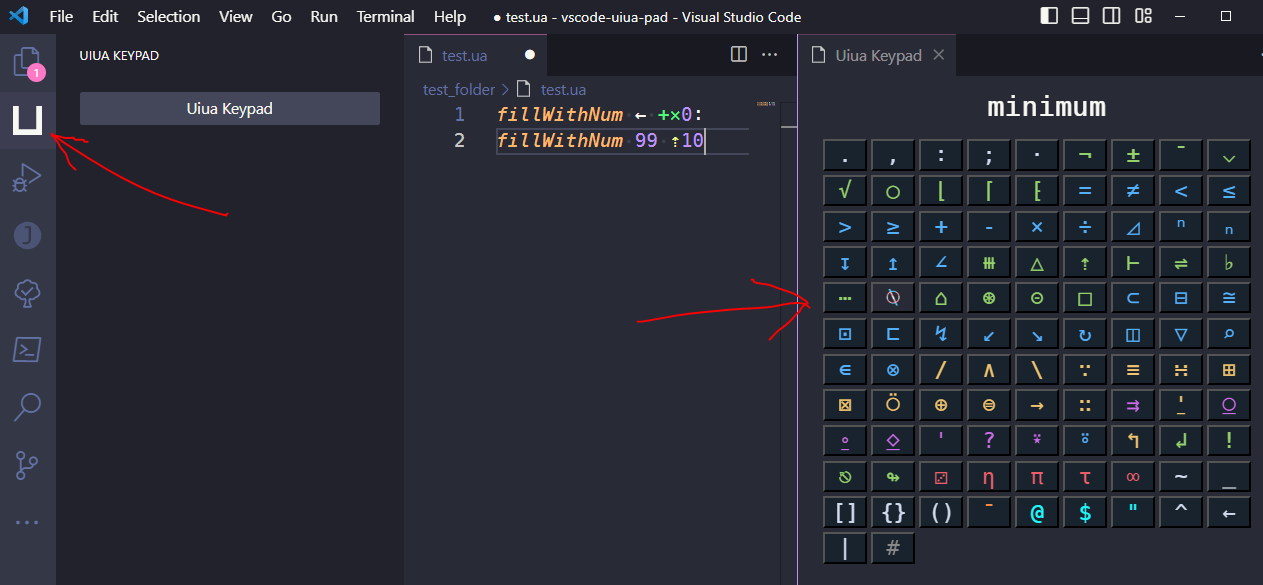
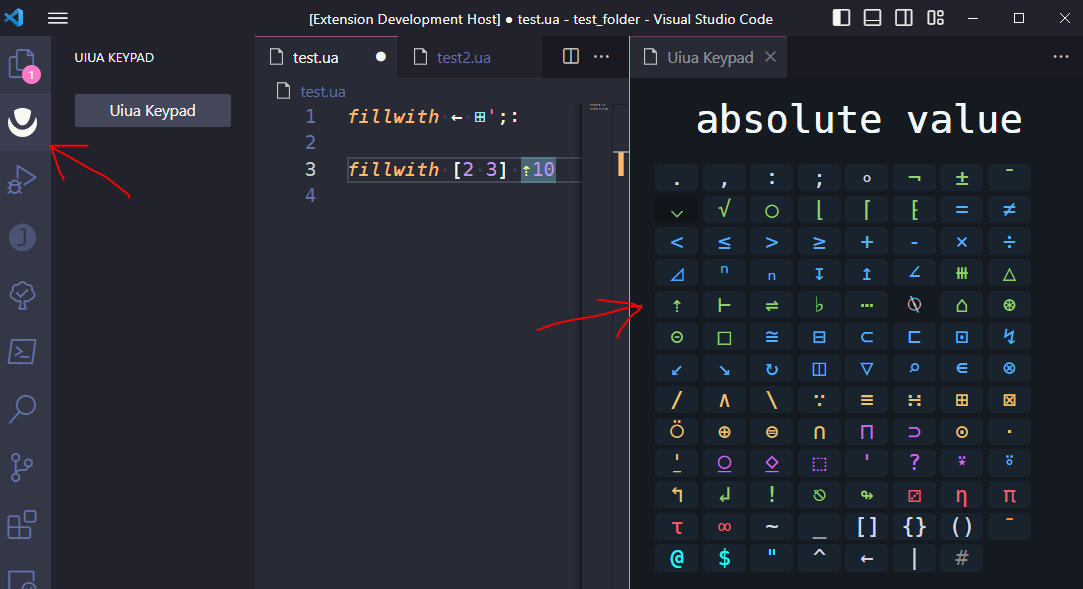
update screenshot

diff --git a/src/extension.ts b/src/extension.ts
@@ -5,6 +5,18 @@ import * as fs from 'fs';
 export function activate(context: vscode.ExtensionContext) {
 
     let panel: vscode.WebviewPanel | undefined = undefined;
+    let active_text_editor:vscode.TextEditor|undefined = vscode.window.activeTextEditor;
+    // track active text editor
+    // TODO: do we need to track notebook editors separately?
+    vscode.window.onDidChangeActiveTextEditor(new_active_editor=>{
+        if(new_active_editor){
+            active_text_editor = new_active_editor;
+        }
+        console.log(new_active_editor)
+        if(new_active_editor){
+            console.log(new_active_editor.document.fileName)
+        }
+    })
 
     context.subscriptions.push(
         vscode.commands.registerCommand('uiua_keypad.activate_keypad', () => {
@@ -37,22 +49,58 @@ export function activate(context: vscode.ExtensionContext) {
                 panel.webview.onDidReceiveMessage(async (message) => {
                     switch(message.command){
                         case "write_glyph":
-                            //vscode.window.showErrorMessage(message.text);
-                            let editor = vscode.window.activeTextEditor;
-                            if (!editor) {
-                                await vscode.commands.executeCommand('workbench.action.previousEditor');
-                                editor = vscode.window.activeTextEditor;
+                            if (!active_text_editor) {
+                                vscode.window.showErrorMessage(
+                                      `No active editor to insert ${message.text}.\n`
+                                    + `Please place your cursor.`
+                                );
+                                return;
                             }
-                            if (editor) {
-                                const { selections } = editor;
-                                editor.edit(editBuilder => {
-                                    for (const selection of selections) {
-                                        editBuilder.insert(selection.start, message.text);
-                                    }
-                                });
-                            }else{
-                                vscode.window.showErrorMessage(`No active editor to insert ${message.text}`);
+                            const { selections } = active_text_editor;
+                             // 1. Group the original selections by line.
+                            let original_selections_lines:Map<number, vscode.Selection[]> = new Map();
+                            for (const selection of selections) {
+                                let line = selection.start.line;
+                                let new_selections:vscode.Selection[] = original_selections_lines.get(line) || [];
+                                new_selections.push(selection);
+                                original_selections_lines.set(line, new_selections);
                             }
+
+                            // 2. Sort the grouped selections for each line from left to right.
+                            for (let line of original_selections_lines.values()) {
+                                line.sort((a, b) => a.start.character - b.start.character);
+                            }
+
+                            // Perform the insertions.
+                            await active_text_editor.edit(editBuilder => {
+                                for (const selection of selections) {
+                                    editBuilder.replace(selection.start, message.text);
+                                }
+                            });
+
+                            // 3. Adjust the selections.
+                            let newSelections = [];
+                            for (let [line, original_selections] of original_selections_lines.entries()) {
+                                let offset = 0;
+                                for (const original_selection of original_selections) {
+                                    let originalStart = original_selection.start.translate(0, offset);
+                                    newSelections.push(new vscode.Selection(originalStart, originalStart));
+                                    // Note: will misbehave if selection does not end on same
+                                    // line... but then again... that means there are no further
+                                    // selections on that line??
+                                    offset += (
+                                        original_selection.end.character
+                                        - original_selection.start.character
+                                    ) + message.text.length;
+                                }
+                            }
+
+                            active_text_editor.selections = newSelections;
+                            vscode.window.showTextDocument(
+                                active_text_editor.document,
+                                active_text_editor.viewColumn,
+                                false
+                            );
                     }
                 });
             }

diff --git a/webview_keypad/glyphs.js b/webview_keypad/glyphs.js
@@ -24,8 +24,8 @@ const glyphs = [
         "color": "rgb(209, 218, 236)"
     },
     {
-        "glyph": "·",
-        "title": "noop",
+        "glyph": "∘",
+        "title": "identity",
         "css_class": "stack-function-button",
         "color": "rgb(209, 218, 236)"
     },
@@ -252,8 +252,8 @@ const glyphs = [
         "color": "rgb(149, 209, 106)"
     },
     {
-        "glyph": "⊂",
-        "title": "join",
+        "glyph": "≅",
+        "title": "match",
         "css_class": "dyadic-function-button",
         "color": "rgb(84, 176, 252)"
     },
@@ -264,20 +264,20 @@ const glyphs = [
         "color": "rgb(84, 176, 252)"
     },
     {
-        "glyph": "≅",
-        "title": "match",
-        "css_class": "dyadic-function-button",
-        "color": "rgb(84, 176, 252)"
-    },
-    {
-        "glyph": "⊡",
-        "title": "pick",
+        "glyph": "⊂",
+        "title": "join",
         "css_class": "dyadic-function-button",
         "color": "rgb(84, 176, 252)"
     },
     {
         "glyph": "⊏",
         "title": "select",
+        "css_class": "dyadic-function-button",
+        "color": "rgb(84, 176, 252)"
+    },
+    {
+        "glyph": "⊡",
+        "title": "pick",
         "css_class": "dyadic-function-button",
         "color": "rgb(84, 176, 252)"
     },
@@ -402,22 +402,34 @@ const glyphs = [
         "color": "rgb(240, 195, 111)"
     },
     {
-        "glyph": "→",
-        "title": "dip",
-        "css_class": "modifier1-button",
-        "color": "rgb(240, 195, 111)"
-    },
-    {
-        "glyph": "∷",
+        "glyph": "∩",
         "title": "both",
         "css_class": "modifier1-button",
         "color": "rgb(240, 195, 111)"
     },
     {
-        "glyph": "⇉",
-        "title": "share",
+        "glyph": "⊓",
+        "title": "bracket",
         "css_class": "modifier2-button",
         "color": "rgb(204, 107, 233)"
+    },
+    {
+        "glyph": "⊃",
+        "title": "fork",
+        "css_class": "modifier2-button",
+        "color": "rgb(204, 107, 233)"
+    },
+    {
+        "glyph": "⊙",
+        "title": "dip",
+        "css_class": "modifier1-button",
+        "color": "rgb(240, 195, 111)"
+    },
+    {
+        "glyph": "⋅",
+        "title": "gap",
+        "css_class": "modifier1-button",
+        "color": "rgb(240, 195, 111)"
     },
     {
         "glyph": "⍘",
@@ -432,14 +444,14 @@ const glyphs = [
         "color": "rgb(204, 107, 233)"
     },
     {
-        "glyph": "⍛",
-        "title": "fill",
+        "glyph": "⍚",
+        "title": "level",
         "css_class": "modifier2-button",
         "color": "rgb(204, 107, 233)"
     },
     {
-        "glyph": "⍚",
-        "title": "level",
+        "glyph": "⬚",
+        "title": "fill",
         "css_class": "modifier2-button",
         "color": "rgb(204, 107, 233)"
     },

diff --git a/webview_keypad/index.css b/webview_keypad/index.css
@@ -1,7 +1,10 @@
 
 body{
     font-family:  "DejaVu Sans Mono", sans-serif;
+    font-size: x-large;
     user-select: none;
+    background-color: #141a1f;
+    color:rgb(240, 249, 255);
 }
 #tooltip-display{
     text-align: center;
@@ -15,34 +18,15 @@ body{
 #button-holder > button{
     font-family:  "DejaVu Sans Mono", sans-serif;
     width:2em;
-    font-size:1.4em;
+    font-size:inherit;
     background-color: #19232d;
+    border-radius: 0.2em;
     margin:0.1em;
+    border-width: 0;
 }
-/* .stack-function-button {
-    color:#d1daec;
+#button-holder>button:hover{
+    background-color: #0003;
 }
-.monadic-function-button{
-    color: #95d16a;
-}
-.dyadic-function-button{
-    color:#54b0fc;
-}
-.modifier1-button{
-    color:#f0c36f;
-}
-.modifier2-button{
-    color:#cc6be9;
-}
-.noadic-function-button{
-    color:#ed5e6a;
-}
-.stack-function-button{
-    color:#aadaec;
-}
-.misc-function-button{
-    color:lightgray;
-} */
 .trans{
     background-image: linear-gradient(180deg, #5BCEFA 29%, #F5A9B8 29%, #F5A9B8 43%, #FFFFFF 43%, #FFFFFF 57%, #F5A9B8 57%, #F5A9B8 71%, #5BCEFA 71%);
     background-size: 100%;
@@ -51,4 +35,16 @@ body{
     -moz-background-clip: text;
     -webkit-text-fill-color: transparent;
     -moz-text-fill-color: transparent;
+}
+
+@media screen and (max-width:45em), (max-height:35em) {
+    body{
+        font-size: large;
+    }
+}
+
+@media screen and (max-width:20em), (max-height:25em) {
+    body{
+        font-size: medium;
+    }
 }

diff --git a/README.md b/README.md
@@ -2,19 +2,16 @@
 
 (unofficial)
 
-This extension has a know bug when multiple editor windows are open: As a workaround please have only one text editor open and the keypad. This way it doesn't activate / insert into a random editor every time you click on the keypad.
+Note that this extension is not supported by the Uiua language developers (yet 😊). The
+language is not stable, so please be patient if this extension is out of date. I
+am hoping the official Uiua extension will have it's own keypad in future and
+this extension can be deprecated. Note that the wierd focus glitches in previous version of this extension have been fixed. Should work nicely now!
 
 ![keypad screenshot](https://github.com/thehappycheese/uiua-keypad/raw/main/resources/screenshot.png)
 
 The icon on the left bar should appear when editing editing a file with the
-`.ua` extension, or you can do Ctrl+Shift+P `uiua activate keypad`.
+`.ua` extension, or you can do `Ctrl+Shift+P` and search for `uiua activate keypad`.
 
-The bug mentioned above happens because I was forced to use
-`command:workbench.action.previousEditor` to switch focus back to your current
-editor every time you click a key. Please raise an issue / pull request on
-github if you can think of a way to fix it please let me know!
-
-Note that this extension is not made by the Uiua language developers. The language is not stable, so please be patient if this extension is out of date. I am hoping the official Uiua extension will have it's own keypad in future and this extension can be deprecated.
 
 ## Author's Notes to Self
 

diff --git a/CHANGELOG.md b/CHANGELOG.md
@@ -2,6 +2,16 @@
 
 All notable changes to the "uiua-keypad" extension will be documented in this file.
 
+## [0.1.16]
+
+- Fixed problems with focus
+- Improved styles
+- Keeping up with language changes
+
+## [0.1.15]
+
+- keeping up to date with language changes
+
 ## [0.1.3]
 
 - remove roll and unroll and add dip `→`
